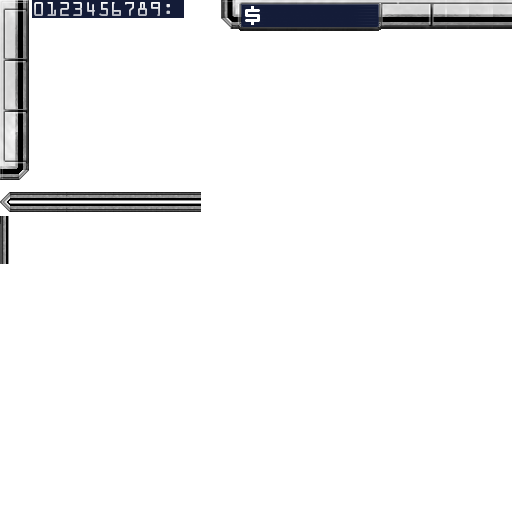
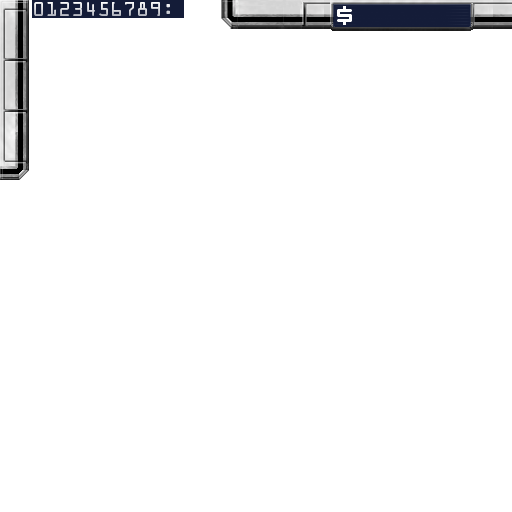
Move money bin in line with radar/power

Changed region(s): [[0.0, 0.375, 0.4062, 0.5312], [0.7188, 0.0, 0.9375, 0.0625], [0.4688, 0.0, 0.6875, 0.0625]]

diff --git a/OpenRa.Game/Chrome.cs b/OpenRa.Game/Chrome.cs
@@ -324,7 +324,7 @@ namespace OpenRa.Game
 		void DrawMoney()
 		{
 			var moneyDigits = Game.LocalPlayer.DisplayCash.ToString();
-			var x = Game.viewport.Width - 155;
+			var x = Game.viewport.Width - 65;
 			foreach (var d in moneyDigits.Reverse())
 			{
 				rgbaRenderer.DrawSprite(digitSprites[d - '0'], new float2(x, 6), PaletteType.Chrome);
@@ -388,9 +388,9 @@ namespace OpenRa.Game
 
 		void DrawButtons()
 		{
-			/*
+			int2 buttonOrigin = new int2(Game.viewport.Width - 320, 2);
 			// Repair
-			Rectangle repairRect = new Rectangle(Game.viewport.Width - 120, 5, repairButton.Image.bounds.Width, repairButton.Image.bounds.Height);
+			Rectangle repairRect = new Rectangle(buttonOrigin.X, buttonOrigin.Y, repairButton.Image.bounds.Width, repairButton.Image.bounds.Height);
 			var repairDrawPos = Game.viewport.Location + new float2(repairRect.Location);
 
 			var hasFact = Game.world.Actors.Any(a => a.Owner == Game.LocalPlayer && a.traits.Contains<ConstructionYard>());
@@ -405,7 +405,7 @@ namespace OpenRa.Game
 			shpRenderer.DrawSprite(repairButton.Image, repairDrawPos, PaletteType.Chrome);
 			
 			// Sell
-			Rectangle sellRect = new Rectangle(Game.viewport.Width - 80, 5, 
+			Rectangle sellRect = new Rectangle(buttonOrigin.X+40, buttonOrigin.Y, 
 				sellButton.Image.bounds.Width, sellButton.Image.bounds.Height);
 
 			var sellDrawPos = Game.viewport.Location + new float2(sellRect.Location);
@@ -415,12 +415,11 @@ namespace OpenRa.Game
 			AddButton(sellRect, isLmb => Game.controller.ToggleInputMode<SellOrderGenerator>());
 			shpRenderer.DrawSprite(sellButton.Image, sellDrawPos, PaletteType.Chrome);
 			shpRenderer.Flush();
-*/
 
 			if (Game.Settings.PowerDownBuildings)
 			{
 				// Power Down
-				Rectangle pwrdownRect = new Rectangle(Game.viewport.Width - 400, 5,
+				Rectangle pwrdownRect = new Rectangle(buttonOrigin.X+80, buttonOrigin.Y,
 					pwrdownButton.Image.bounds.Width, pwrdownButton.Image.bounds.Height);
 
 				var pwrdownDrawPos = Game.viewport.Location + new float2(pwrdownRect.Location);
